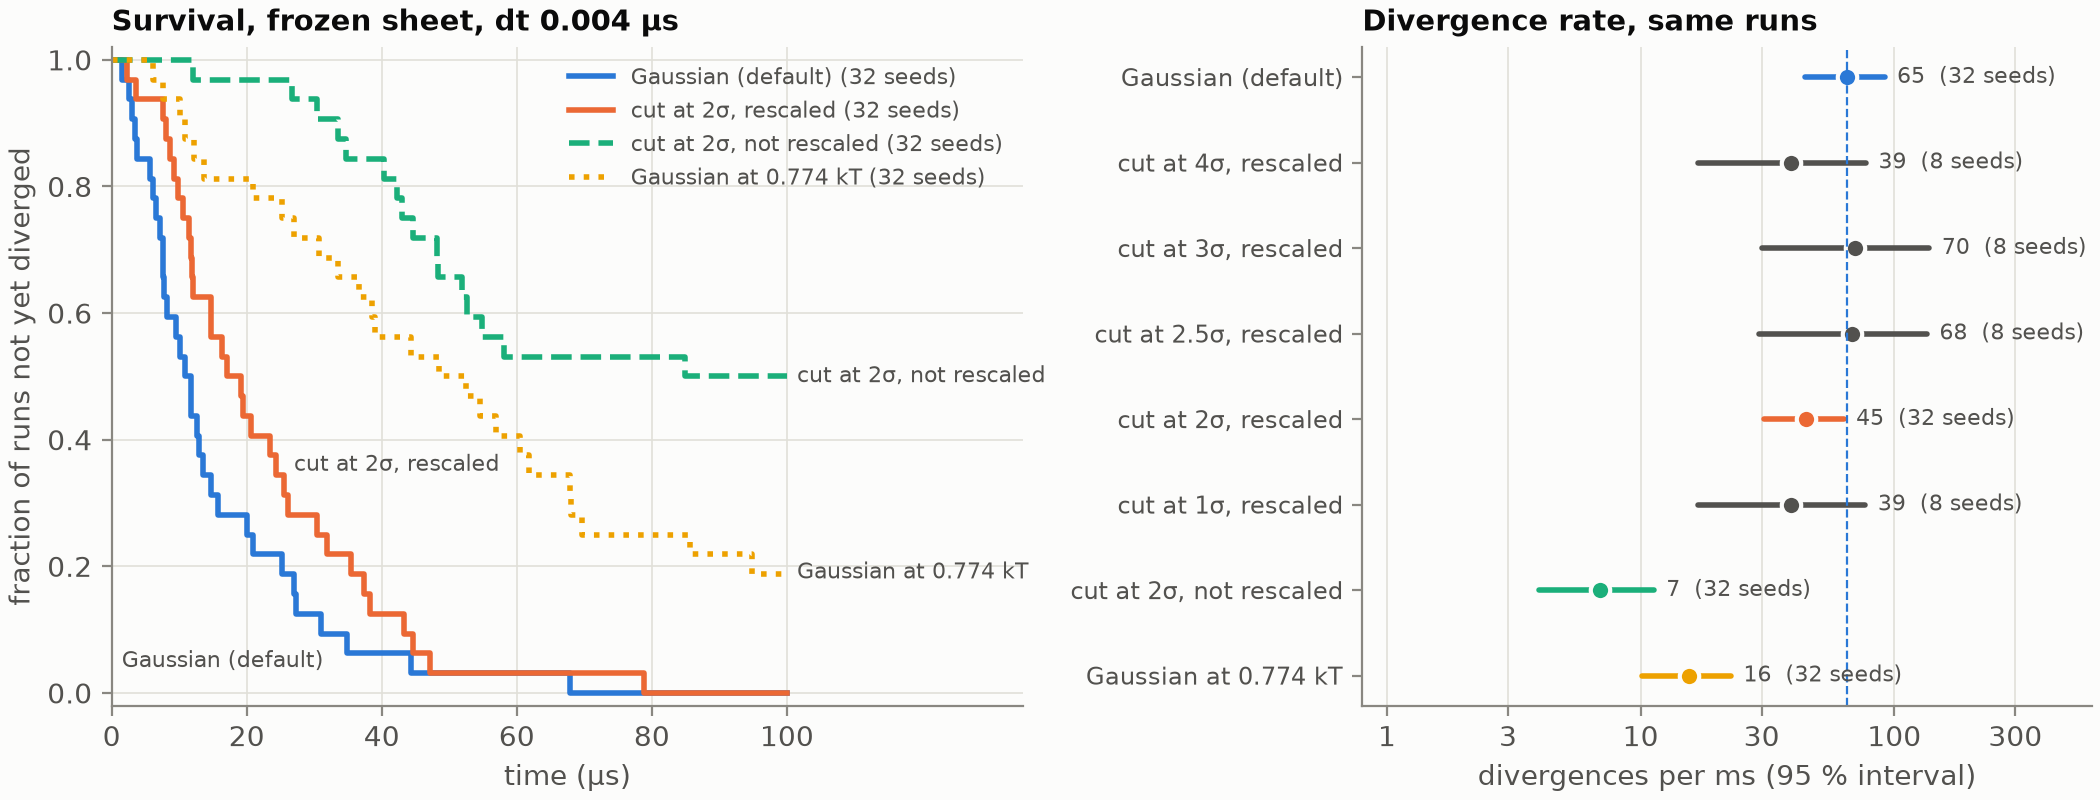
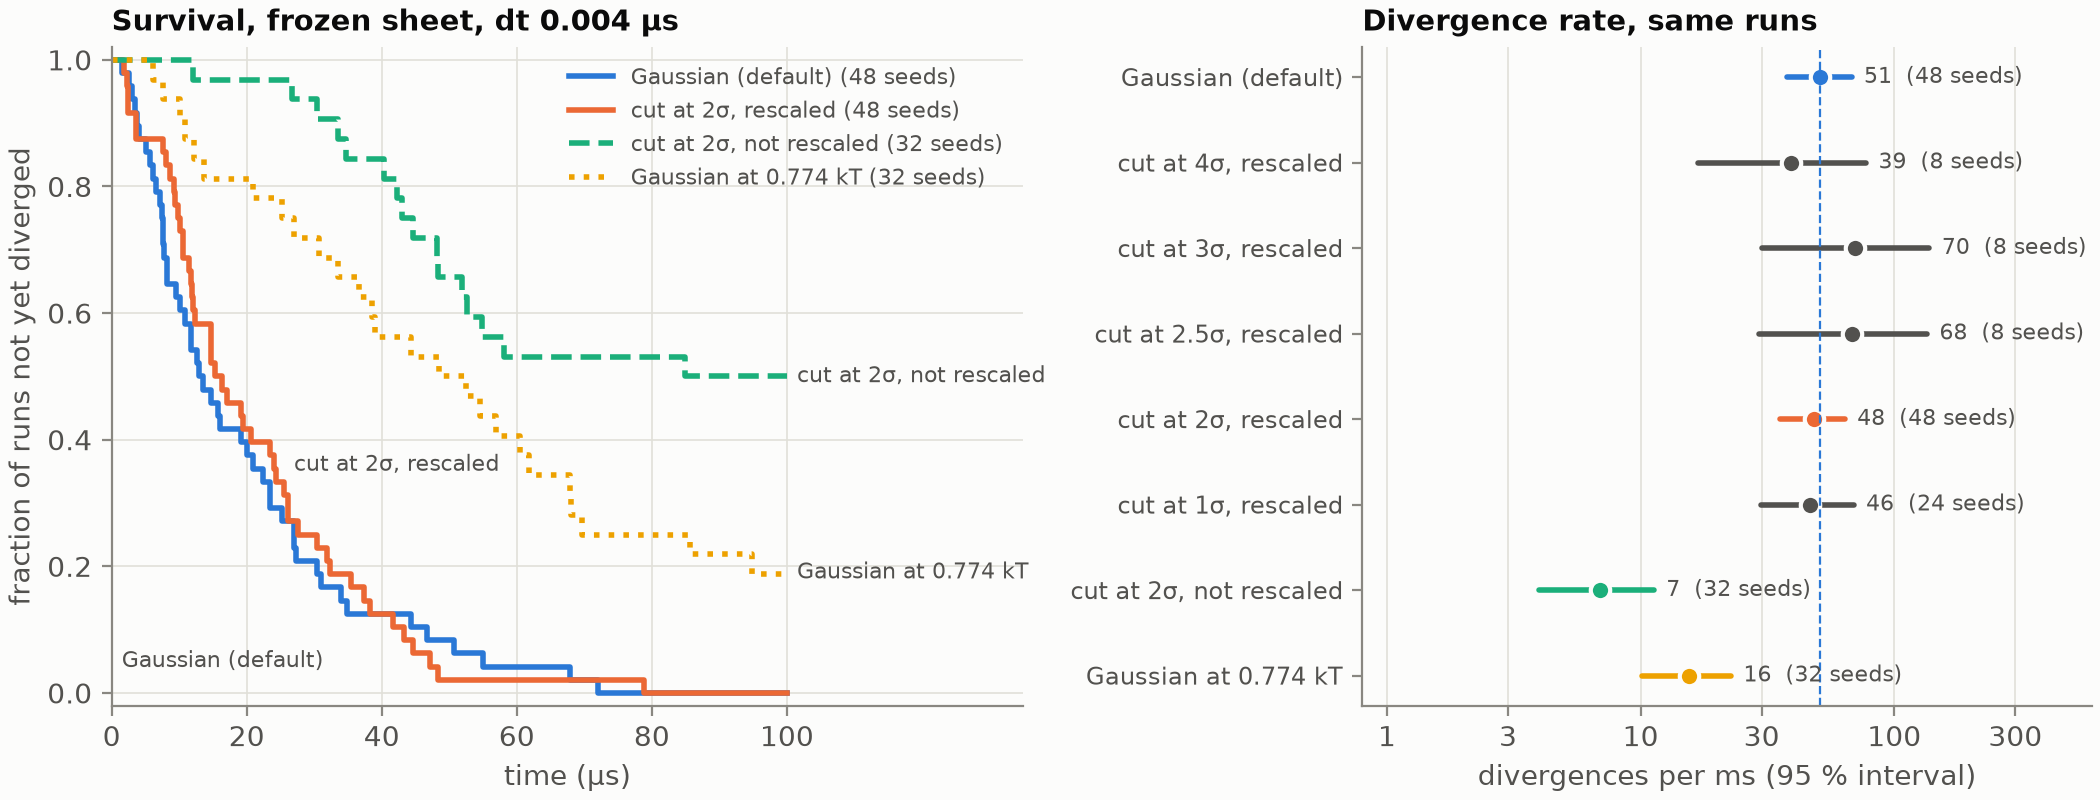
docs(resolution-limits): dt sweep shows truncation does not move the bound
Section 2.5 claimed clipping at 2 sigma (variance kept) lowers the divergence
rate x0.58 and buys ~4 % in dt. A further 240 frozen runs (dt 0.003 to 0.006,
16 seeds per point per law) and 12 fluid runs say otherwise:

- dt 0.004, now 48 seeds: the 2 sigma cut is x0.94 (0.63-1.40) of the
  Gaussian rate, the 1 sigma cut x0.91 (0.56-1.48); the earlier x0.69 was
  scatter.
- Across the sweep the Gaussian and both cuts follow one power law
  (rate ~ dt^10-11); the dt at equal rate agrees to x1.00 (0.93-1.08) at
  1 sigma and x0.97-1.01 at 2 sigma. At dt 0.005 and 0.006 every run of every
  law diverges within 1-2 us.
- Fluid dt 0.003, 10 seeds per law: 6 divergences each.

Adds truncated_noise_dt_sweep.png and folds the new dt 0.004 seeds into the
survival figure.

diff --git a/analysis/truncated_noise_figures.py b/analysis/truncated_noise_figures.py
@@ -10,12 +10,14 @@ reads, under the runs root,
   base_dt0.004_frozen_s1/stepdiag.csv  the per-step force and noise steps of the
                                        diverging reference run (written by the
                                        study's step-diagnostics patch)
-  A_dt0.004_*, C_dt0.004_*             the stability runs (run.log, input.params)
+  A_dt0.004_*, C_dt0.004_*, D_dt0.004_* the dt 0.004 stability runs (run.log, input.params)
+  D_dt*_*                              the time-step sweep (16 seeds per point)
   B_dt0.002_*/resolution_summary.npz   the spectrum runs, reduced by
                                        resolution_sweep_analysis.py reduce
 
-and writes truncated_noise_mechanism.png, truncated_noise_stability.png and
-truncated_noise_spectrum.png to the output directory.
+and writes truncated_noise_mechanism.png, truncated_noise_stability.png,
+truncated_noise_dt_sweep.png and truncated_noise_spectrum.png to the output
+directory.
 """
 import math
 import re
@@ -120,7 +122,7 @@ def mechanism(root, out):
 def stability_runs(root):
     """{law: [(time of divergence or None, simulated time)]} over the A and C sets."""
     runs = {}
-    for d in sorted(list(root.glob("A_dt0.004_*")) + list(root.glob("C_dt0.004_*"))):
+    for d in sorted(list(root.glob("A_dt0.004_*")) + list(root.glob("C_dt0.004_*")) + list(root.glob("D_dt0.004_*"))):
         log = d / "run.log"
         if not log.exists() or "exit" not in log.read_text(errors="replace"):
             continue
@@ -205,6 +207,62 @@ def stability(root, out):
 
 
 # q >= 0.12 nm^-1 only: the slower modes are under-sampled in 300 us (section 2.3, Q_COMPARE)
+def dt_sweep(root, out):
+    """Divergence rate against dt per law: does truncation move the bound?"""
+    points = {}
+    for d in sorted(root.glob("D_dt*_*")):
+        log = d / "run.log"
+        if not log.exists() or "exit" not in log.read_text(errors="replace"):
+            continue
+        p = read_params(d / "input.params")
+        dt, cap = float(p["timeStep"]), int(p["maxIterations"]) * float(p["timeStep"])
+        m = re.search(r"at iteration (\d+); the run has diverged", log.read_text(errors="replace"))
+        law = re.sub(r"_s\d+$", "", d.name).split("_")[-1]
+        e = int(m.group(1)) * dt if m else None
+        k, T = points.get((law, dt), (0, 0.0))
+        points[(law, dt)] = (k + (e is not None), T + (e if e is not None else cap))
+    shown = [("inf", "Gaussian (default)", BLUE, "o", 1.0), ("c2", "cut at 2σ, rescaled", ORANGE, "s", 0.985),
+             ("c1", "cut at 1σ, rescaled", INK2, "D", 1.015)]
+    fig, ax = plt.subplots(figsize=(7.2, 4.3), constrained_layout=True)
+    for law, label, color, marker, shift in shown:
+        dts = sorted(dt for (l, dt) in points if l == law)
+        for dt in dts:
+            k, T = points[(law, dt)]
+            lo, hi = poisson_interval(k, T)
+            x = dt * shift
+            if k == 0:
+                ax.annotate("", xy=(x, 0.3), xytext=(x, hi), arrowprops=dict(arrowstyle="->", color=color, lw=1.5))
+                ax.plot(x, hi, marker="_", color=color, ms=10, mew=2)
+            else:
+                ax.plot([x, x], [lo, hi], color=color, lw=1.5, solid_capstyle="round")
+                ax.plot(x, 1000 * k / T, marker=marker, color=color, mec=SURFACE, mew=1.5, ls="none")
+        # Poisson maximum-likelihood power law through the points with divergences
+        xs = np.log([dt for dt in dts]); ks = np.array([points[(law, dt)][0] for dt in dts])
+        Ts = np.array([points[(law, dt)][1] for dt in dts]) / 1000
+        b, a = np.polyfit(xs[ks > 0], np.log(ks[ks > 0] / Ts[ks > 0]), 1)
+        for _ in range(200):     # Newton on the Poisson likelihood, from the log-linear start
+            mu = Ts * np.exp(a + b * xs)
+            g = np.array([np.sum(ks - mu), np.sum((ks - mu) * xs)])
+            H = -np.array([[np.sum(mu), np.sum(mu * xs)], [np.sum(mu * xs), np.sum(mu * xs * xs)]])
+            step = np.linalg.solve(H, g)
+            a, b = a - step[0], b - step[1]
+        grid = np.geomspace(0.0029, 0.0062, 50)
+        ax.plot(grid, np.exp(a + b * np.log(grid)), color=color, lw=1, alpha=0.7,
+                label=f"{label}: rate ∝ dt^{b:.0f}")
+    ax.set_xscale("log")
+    ax.set_yscale("log")
+    plain(ax.xaxis, [0.003, 0.0035, 0.004, 0.005, 0.006])
+    ax.set_ylim(0.3, 6000)
+    plain(ax.yaxis, [1, 10, 100, 1000])
+    ax.set_xlabel("time step dt (µs)")
+    ax.set_ylabel("divergences per ms (95 % interval)")
+    ax.set_title("The stability bound does not move: frozen, lFace 5, 16 seeds per point")
+    ax.text(0.00312, 0.36, "arrow: no divergence,\nbar at the 95 % upper limit", fontsize=8, color=INK2, va="bottom")
+    ax.legend(loc="upper left", fontsize=8)
+    fig.savefig(out / "truncated_noise_dt_sweep.png")
+    plt.close(fig)
+
+
 SHELLS = np.array([0.12, 0.2, 0.3, 0.45, 0.6, 0.8, 1.0])
 
 
@@ -290,8 +348,10 @@ def main():
     style()
     mechanism(root, out)
     stability(root, out)
+    dt_sweep(root, out)
     spectrum(root, out)
-    print("wrote", ", ".join(f"truncated_noise_{n}.png" for n in ("mechanism", "stability", "spectrum")), "to", out)
+    print("wrote", ", ".join(f"truncated_noise_{n}.png" for n in ("mechanism", "stability", "dt_sweep", "spectrum")),
+          "to", out)
 
 
 if __name__ == "__main__":

diff --git a/docs/resolution_limits.md b/docs/resolution_limits.md
@@ -166,17 +166,26 @@ step on the walls of section 2.2 does the rest.
 
 | noise | seeds | diverged | simulated (µs) | per ms |
 | --- | --- | --- | --- | --- |
-| Gaussian | 32 | 32 | 493 | 65 |
-| cut at 2 σ, rescaled | 32 | 32 | 716 | 45 (× 0.69, 95 % 0.42-1.13) |
-| cut at 4, 3, 2.5, 1 σ, rescaled | 8 each | 8 each | 115-205 | 39-70 |
+| Gaussian | 48 | 48 | 938 | 51 |
+| cut at 2 σ, rescaled | 48 | 48 | 998 | 48 (× 0.94, 95 % 0.63-1.40) |
+| cut at 1 σ, rescaled | 24 | 24 | 517 | 46 (× 0.91, 0.56-1.48) |
+| cut at 4, 3, 2.5 σ, rescaled | 8 each | 8 each | 115-205 | 39-70 |
 | cut at 2 σ, not rescaled (variance 0.774) | 32 | 16 | 2306 | 6.9 |
 | Gaussian at 0.774 kT (`KBT` and `diffConst` × 0.774) | 32 | 26 | 1677 | 15.5 |
 
-Clipping at fixed variance, both comparisons pooled, multiplies the rate by 0.58 (0.40-0.86). Since
-the rate grows about as dt^12.6 (more than tenfold per 20 % of dt, section 2.1), that is a 4 %
-(1-8 %) longer step. The unrescaled cut is more stable mostly because it is colder: the same
-variance with the tails kept already gives a quarter of the rate. Fluid, dt 0.003, 6 seeds of
-60 µs: 4 diverged untruncated, 4 cut at 2 σ, 3 at 1 σ.
+The first 32 seeds put the 2 σ cut at × 0.69 of the Gaussian rate; 16 more brought it to × 0.94,
+so that was scatter. **Nor does truncation move the bound.** Swept from dt 0.003 to 0.006, 16 seeds
+per point, the Gaussian and the cuts at 2 and 1 σ lie on one power law, rate ∝ dt^10-11, and a
+truncated law reaches a given rate at the same dt as the Gaussian to within × 1.00 (0.93-1.08) at
+1 σ and × 0.97-1.01 (0.90-1.04) at 2 σ. Where every Gaussian run diverges within 1-2 µs (dt 0.005,
+0.006), every truncated run does too, in the same time. Fluid, dt 0.003, 10 seeds of 60 µs per law:
+6 diverged in each, 16.8, 17.9 and 14.7 per ms untruncated, at 2 σ and at 1 σ.
+
+The unrescaled cut is more stable because it is colder: a Gaussian at the same 0.774 k_BT already has
+a quarter of the rate. It has about half that again (× 0.45, 0.24-0.83, from the 32 seeds; not
+retested), but at a sampled temperature 23 % below `KBT` it is not a fix either (below).
+
+![Divergence rate against the time step for the Gaussian and the rescaled cuts](figures/truncated_noise_dt_sweep.png)
 
 ![Survival and divergence rate per noise law, frozen, dt 0.004](figures/truncated_noise_stability.png)
 
@@ -196,7 +205,7 @@ sheet, frozen, dt 0.002, 400 µs, two seeds each, against the Gaussian:
 
 ![Spectrum and relaxation rates of the truncated laws against the Gaussian, frozen, dt 0.002](figures/truncated_noise_spectrum.png)
 
-The three figures are drawn by `analysis/truncated_noise_figures.py <runs> docs/figures` from the
+The four figures are drawn by `analysis/truncated_noise_figures.py <runs> docs/figures` from the
 runs of `~/slimed_runs/trunc_noise/runs`.
 
 Rescaled, the truncated noise keeps the spectrum and the rates (the shortest shell may read 1-2 % high,
